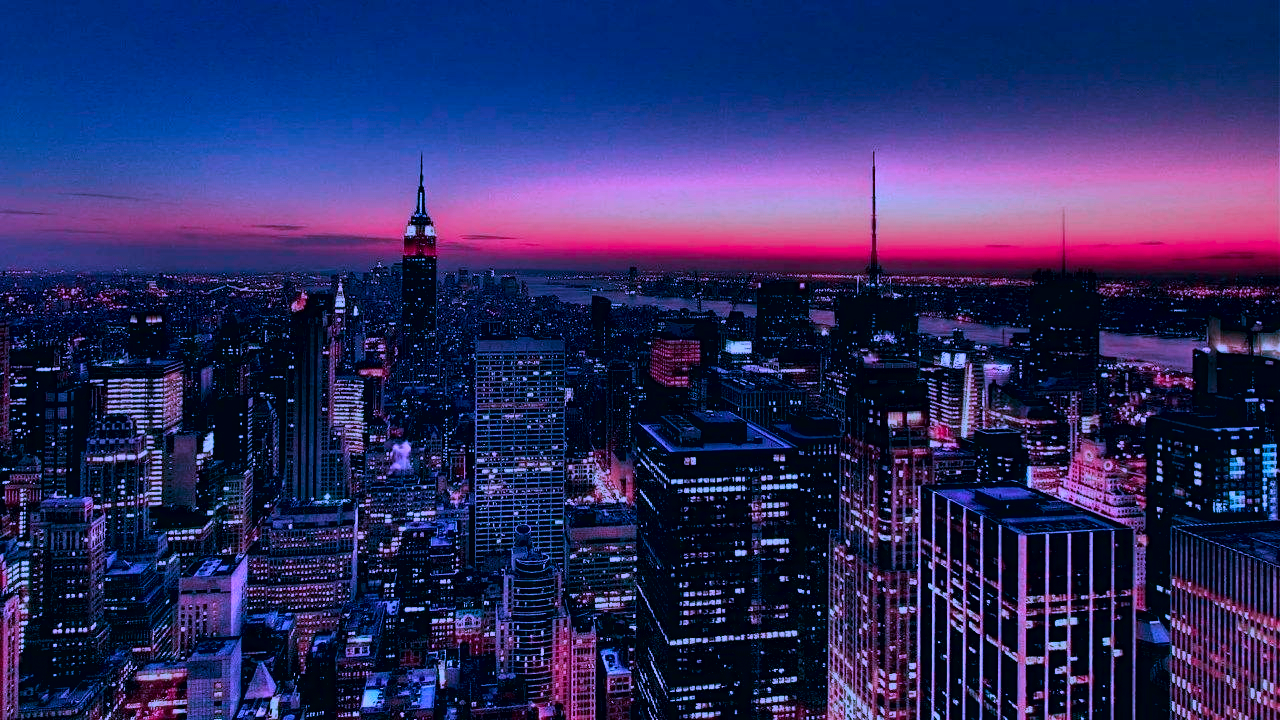
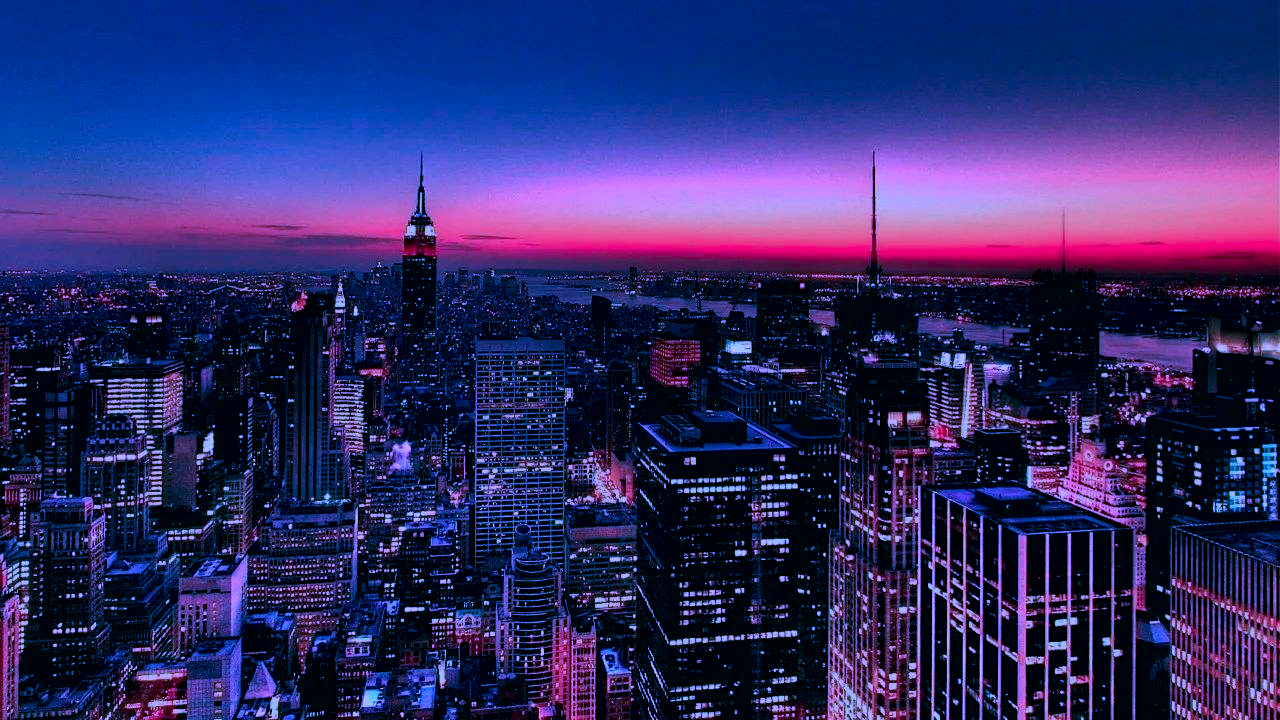
Update

diff --git a/colortransfer/colortransfer.py b/colortransfer/colortransfer.py
@@ -12,7 +12,7 @@ def color_transfer(sc, dc):
 	s_mean, s_std = get_mean_and_std(sc)
 	dc = cv2.cvtColor(dc, cv2.COLOR_BGR2LAB)
 	t_mean, t_std = get_mean_and_std(dc)
-	st = (s_mean / t_mean) ** 1.2
+	st = (s_mean / t_mean) ** 1.5
 	img_n = ((sc-s_mean)*(t_std/s_std))+t_mean
 	np.putmask(img_n, img_n > 255, 255)
 	np.putmask(img_n, img_n < 0, 0)
@@ -135,6 +135,8 @@ dst = color_transfer_max(sc, dc)
 cv2.imwrite('r_max.png',dst)
 dst = color_transfer_nonlinear(sc, dc)
 cv2.imwrite('r_n.png',dst)
+dst = color_transfer_maxmin(sc, dc)
+cv2.imwrite('r_m.png',dst)
 # dst = dst / 255
 # m = np.mean(dst)
 # dst = (dst - m) * st + m
